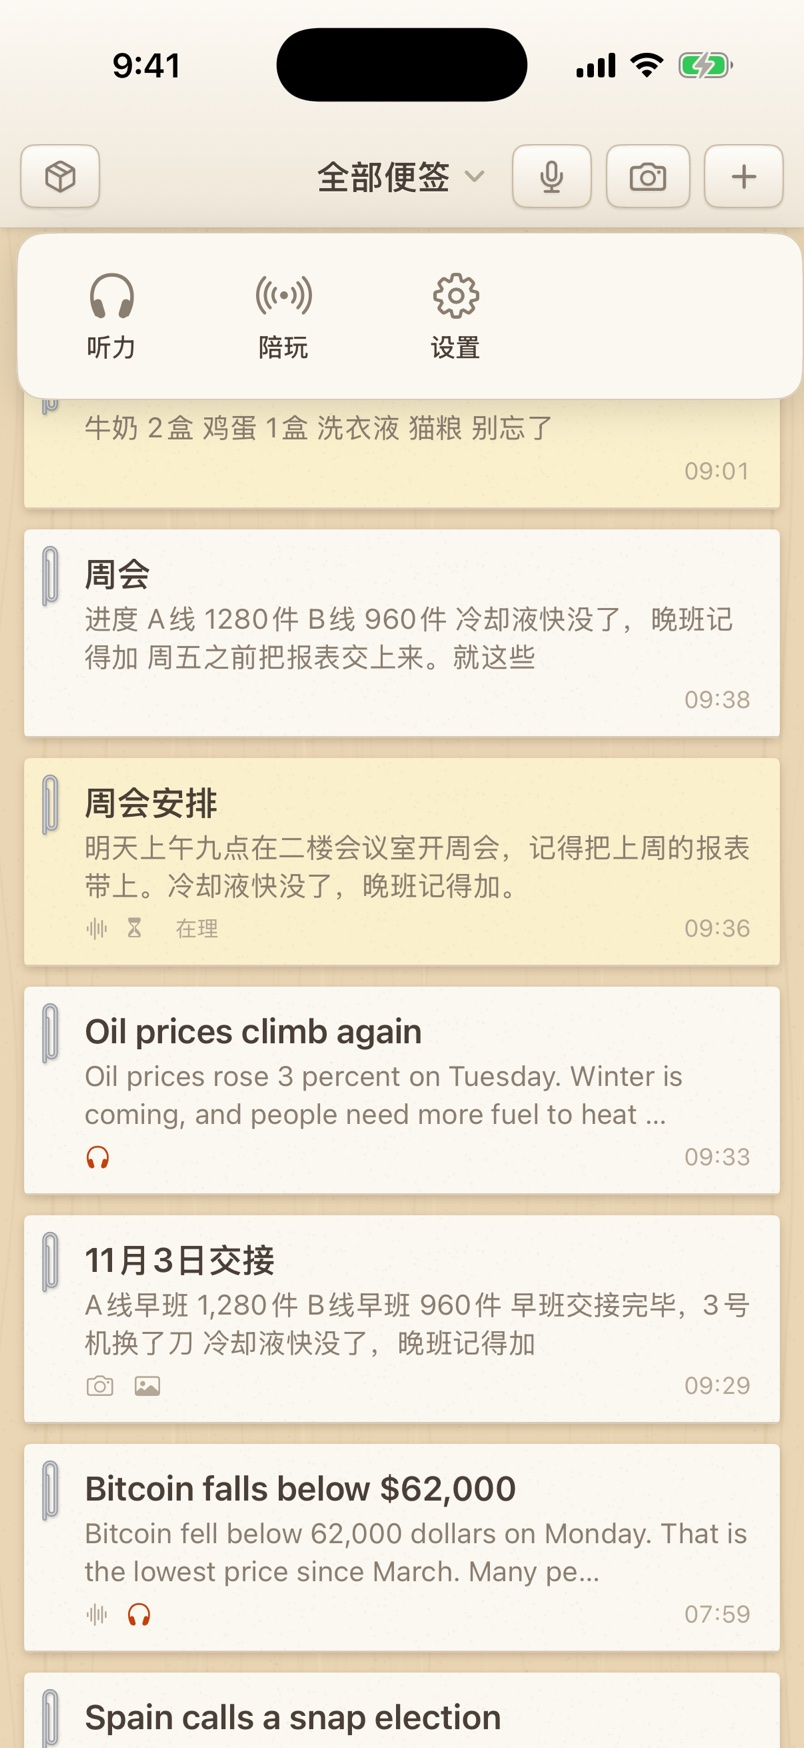
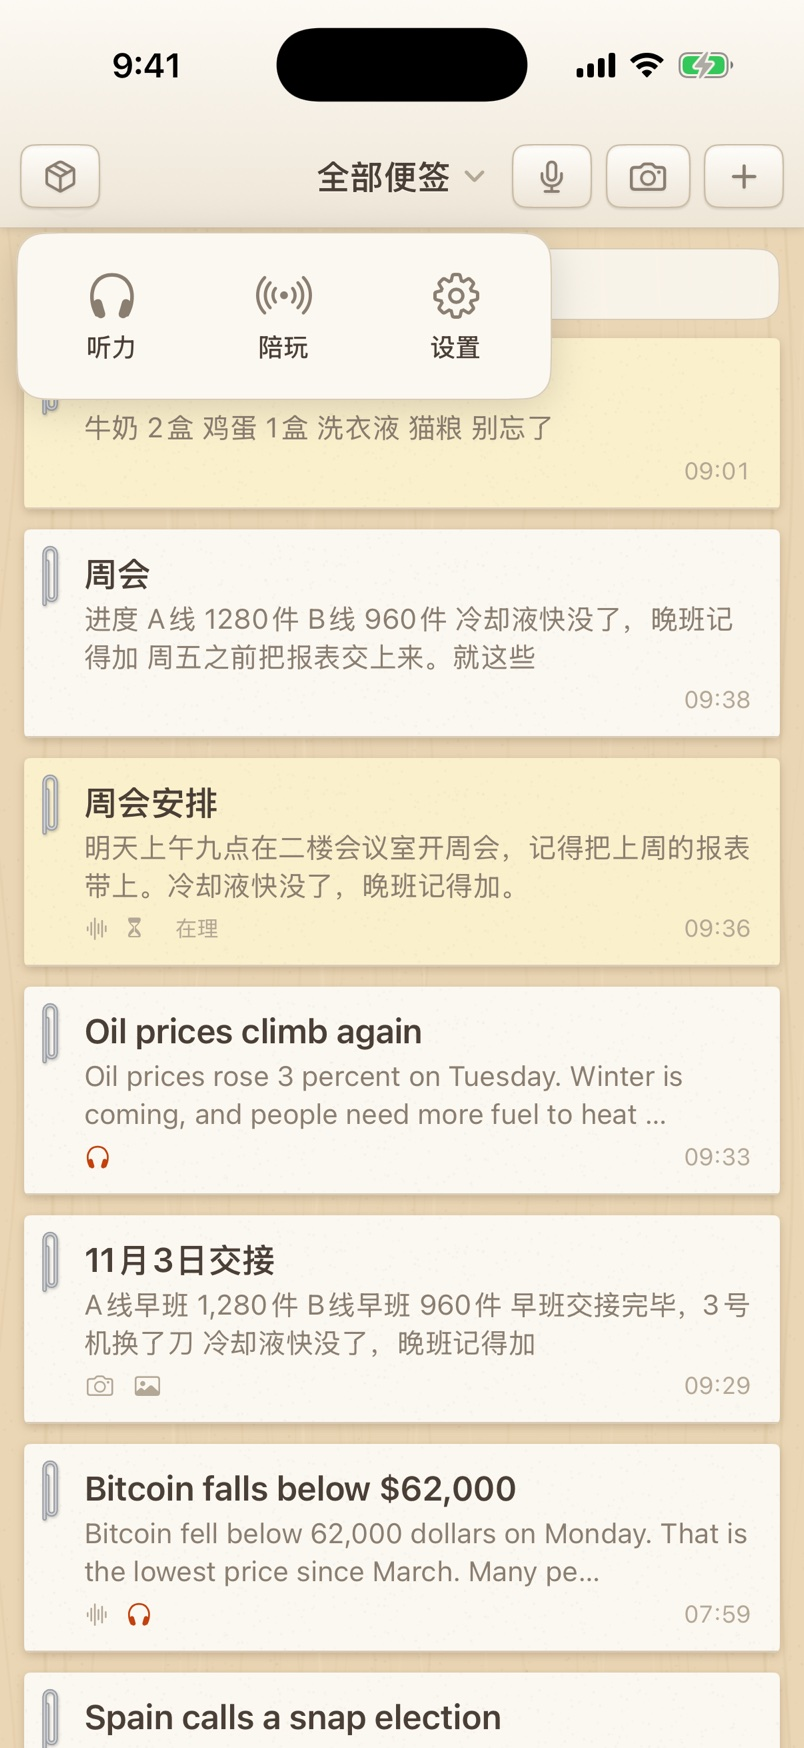
iOS 截图：3bbd1cc [skip ci]

Changed region(s): [[0.653, 0.1236, 1.0, 0.2471]]

diff --git a/ios/shots/index.html b/ios/shots/index.html
@@ -26,18 +26,18 @@ figcaption { text-align:center; color:var(--ink2); font-size:14px; margin-top:6p
 <body>
 <header>
 <h1>一叶笺 iPhone · 最新样子</h1>
-<p class="meta">0.7.3 · 提交 837dca7 · 11-24 12:09（新加坡时间）</p>
-<p class="changed">这次改了：105 一叶笺 0.7.3：工具箱面板贴着格子，不拉满整行</p>
+<p class="meta">0.7.3 · 提交 3bbd1cc · 11-24 12:10（新加坡时间）</p>
+<p class="changed">这次改了：截图：837dca7 [skip ci]</p>
 <p class="meta">拍照认字认对：印刷 99%，手写 89% · 52 张截图，CI 每次自动换</p>
 </header>
 <nav>
 <button data-lang="zh" aria-pressed="true">中文</button><button data-lang="en" aria-pressed="false">English</button>
 <button data-look="light" aria-pressed="true">浅色</button><button data-look="dark" aria-pressed="false">深色</button>
 </nav>
-<section class="set" data-set="zh-light"><figure><img src="zh-light/01-list.jpg?v=837dca7" alt="列表" loading="lazy" width="402" height="874"><figcaption>列表</figcaption></figure><figure><img src="zh-light/02-editor.jpg?v=837dca7" alt="写字页" loading="lazy" width="402" height="874"><figcaption>写字页</figcaption></figure><figure><img src="zh-light/03-markdown.jpg?v=837dca7" alt="Markdown 五招" loading="lazy" width="402" height="874"><figcaption>Markdown 五招</figcaption></figure><figure><img src="zh-light/04-ocr.jpg?v=837dca7" alt="拍照认字" loading="lazy" width="402" height="874"><figcaption>拍照认字</figcaption></figure><figure><img src="zh-light/05-share-note.jpg?v=837dca7" alt="分享成图 · 便签" loading="lazy" width="402" height="874"><figcaption>分享成图 · 便签</figcaption></figure><figure><img src="zh-light/06-share-white.jpg?v=837dca7" alt="分享成图 · 白纸" loading="lazy" width="402" height="874"><figcaption>分享成图 · 白纸</figcaption></figure><figure><img src="zh-light/07-settings.jpg?v=837dca7" alt="设置" loading="lazy" width="402" height="874"><figcaption>设置</figcaption></figure><figure><img src="zh-light/08-butler.jpg?v=837dca7" alt="大管家" loading="lazy" width="402" height="874"><figcaption>大管家</figcaption></figure><figure><img src="zh-light/09-voice.jpg?v=837dca7" alt="录一段" loading="lazy" width="402" height="874"><figcaption>录一段</figcaption></figure><figure><img src="zh-light/10-voice-note.jpg?v=837dca7" alt="录音笔记" loading="lazy" width="402" height="874"><figcaption>录音笔记</figcaption></figure><figure><img src="zh-light/11-listen.jpg?v=837dca7" alt="听力列表" loading="lazy" width="402" height="874"><figcaption>听力列表</figcaption></figure><figure><img src="zh-light/12-listen-text.jpg?v=837dca7" alt="听力 · 原文" loading="lazy" width="402" height="874"><figcaption>听力 · 原文</figcaption></figure><figure><img src="zh-light/13-toolbox.jpg?v=837dca7" alt="工具箱（点开）" loading="lazy" width="402" height="874"><figcaption>工具箱（点开）</figcaption></figure></section>
-<section class="set" data-set="zh-dark" hidden><figure><img src="zh-dark/01-list.jpg?v=837dca7" alt="列表" loading="lazy" width="402" height="874"><figcaption>列表</figcaption></figure><figure><img src="zh-dark/02-editor.jpg?v=837dca7" alt="写字页" loading="lazy" width="402" height="874"><figcaption>写字页</figcaption></figure><figure><img src="zh-dark/03-markdown.jpg?v=837dca7" alt="Markdown 五招" loading="lazy" width="402" height="874"><figcaption>Markdown 五招</figcaption></figure><figure><img src="zh-dark/04-ocr.jpg?v=837dca7" alt="拍照认字" loading="lazy" width="402" height="874"><figcaption>拍照认字</figcaption></figure><figure><img src="zh-dark/05-share-note.jpg?v=837dca7" alt="分享成图 · 便签" loading="lazy" width="402" height="874"><figcaption>分享成图 · 便签</figcaption></figure><figure><img src="zh-dark/06-share-white.jpg?v=837dca7" alt="分享成图 · 白纸" loading="lazy" width="402" height="874"><figcaption>分享成图 · 白纸</figcaption></figure><figure><img src="zh-dark/07-settings.jpg?v=837dca7" alt="设置" loading="lazy" width="402" height="874"><figcaption>设置</figcaption></figure><figure><img src="zh-dark/08-butler.jpg?v=837dca7" alt="大管家" loading="lazy" width="402" height="874"><figcaption>大管家</figcaption></figure><figure><img src="zh-dark/09-voice.jpg?v=837dca7" alt="录一段" loading="lazy" width="402" height="874"><figcaption>录一段</figcaption></figure><figure><img src="zh-dark/10-voice-note.jpg?v=837dca7" alt="录音笔记" loading="lazy" width="402" height="874"><figcaption>录音笔记</figcaption></figure><figure><img src="zh-dark/11-listen.jpg?v=837dca7" alt="听力列表" loading="lazy" width="402" height="874"><figcaption>听力列表</figcaption></figure><figure><img src="zh-dark/12-listen-text.jpg?v=837dca7" alt="听力 · 原文" loading="lazy" width="402" height="874"><figcaption>听力 · 原文</figcaption></figure><figure><img src="zh-dark/13-toolbox.jpg?v=837dca7" alt="工具箱（点开）" loading="lazy" width="402" height="874"><figcaption>工具箱（点开）</figcaption></figure></section>
-<section class="set" data-set="en-light" hidden><figure><img src="en-light/01-list.jpg?v=837dca7" alt="列表" loading="lazy" width="402" height="874"><figcaption>列表</figcaption></figure><figure><img src="en-light/02-editor.jpg?v=837dca7" alt="写字页" loading="lazy" width="402" height="874"><figcaption>写字页</figcaption></figure><figure><img src="en-light/03-markdown.jpg?v=837dca7" alt="Markdown 五招" loading="lazy" width="402" height="874"><figcaption>Markdown 五招</figcaption></figure><figure><img src="en-light/04-ocr.jpg?v=837dca7" alt="拍照认字" loading="lazy" width="402" height="874"><figcaption>拍照认字</figcaption></figure><figure><img src="en-light/05-share-note.jpg?v=837dca7" alt="分享成图 · 便签" loading="lazy" width="402" height="874"><figcaption>分享成图 · 便签</figcaption></figure><figure><img src="en-light/06-share-white.jpg?v=837dca7" alt="分享成图 · 白纸" loading="lazy" width="402" height="874"><figcaption>分享成图 · 白纸</figcaption></figure><figure><img src="en-light/07-settings.jpg?v=837dca7" alt="设置" loading="lazy" width="402" height="874"><figcaption>设置</figcaption></figure><figure><img src="en-light/08-butler.jpg?v=837dca7" alt="大管家" loading="lazy" width="402" height="874"><figcaption>大管家</figcaption></figure><figure><img src="en-light/09-voice.jpg?v=837dca7" alt="录一段" loading="lazy" width="402" height="874"><figcaption>录一段</figcaption></figure><figure><img src="en-light/10-voice-note.jpg?v=837dca7" alt="录音笔记" loading="lazy" width="402" height="874"><figcaption>录音笔记</figcaption></figure><figure><img src="en-light/11-listen.jpg?v=837dca7" alt="听力列表" loading="lazy" width="402" height="874"><figcaption>听力列表</figcaption></figure><figure><img src="en-light/12-listen-text.jpg?v=837dca7" alt="听力 · 原文" loading="lazy" width="402" height="874"><figcaption>听力 · 原文</figcaption></figure><figure><img src="en-light/13-toolbox.jpg?v=837dca7" alt="工具箱（点开）" loading="lazy" width="402" height="874"><figcaption>工具箱（点开）</figcaption></figure></section>
-<section class="set" data-set="en-dark" hidden><figure><img src="en-dark/01-list.jpg?v=837dca7" alt="列表" loading="lazy" width="402" height="874"><figcaption>列表</figcaption></figure><figure><img src="en-dark/02-editor.jpg?v=837dca7" alt="写字页" loading="lazy" width="402" height="874"><figcaption>写字页</figcaption></figure><figure><img src="en-dark/03-markdown.jpg?v=837dca7" alt="Markdown 五招" loading="lazy" width="402" height="874"><figcaption>Markdown 五招</figcaption></figure><figure><img src="en-dark/04-ocr.jpg?v=837dca7" alt="拍照认字" loading="lazy" width="402" height="874"><figcaption>拍照认字</figcaption></figure><figure><img src="en-dark/05-share-note.jpg?v=837dca7" alt="分享成图 · 便签" loading="lazy" width="402" height="874"><figcaption>分享成图 · 便签</figcaption></figure><figure><img src="en-dark/06-share-white.jpg?v=837dca7" alt="分享成图 · 白纸" loading="lazy" width="402" height="874"><figcaption>分享成图 · 白纸</figcaption></figure><figure><img src="en-dark/07-settings.jpg?v=837dca7" alt="设置" loading="lazy" width="402" height="874"><figcaption>设置</figcaption></figure><figure><img src="en-dark/08-butler.jpg?v=837dca7" alt="大管家" loading="lazy" width="402" height="874"><figcaption>大管家</figcaption></figure><figure><img src="en-dark/09-voice.jpg?v=837dca7" alt="录一段" loading="lazy" width="402" height="874"><figcaption>录一段</figcaption></figure><figure><img src="en-dark/10-voice-note.jpg?v=837dca7" alt="录音笔记" loading="lazy" width="402" height="874"><figcaption>录音笔记</figcaption></figure><figure><img src="en-dark/11-listen.jpg?v=837dca7" alt="听力列表" loading="lazy" width="402" height="874"><figcaption>听力列表</figcaption></figure><figure><img src="en-dark/12-listen-text.jpg?v=837dca7" alt="听力 · 原文" loading="lazy" width="402" height="874"><figcaption>听力 · 原文</figcaption></figure><figure><img src="en-dark/13-toolbox.jpg?v=837dca7" alt="工具箱（点开）" loading="lazy" width="402" height="874"><figcaption>工具箱（点开）</figcaption></figure></section>
+<section class="set" data-set="zh-light"><figure><img src="zh-light/01-list.jpg?v=3bbd1cc" alt="列表" loading="lazy" width="402" height="874"><figcaption>列表</figcaption></figure><figure><img src="zh-light/02-editor.jpg?v=3bbd1cc" alt="写字页" loading="lazy" width="402" height="874"><figcaption>写字页</figcaption></figure><figure><img src="zh-light/03-markdown.jpg?v=3bbd1cc" alt="Markdown 五招" loading="lazy" width="402" height="874"><figcaption>Markdown 五招</figcaption></figure><figure><img src="zh-light/04-ocr.jpg?v=3bbd1cc" alt="拍照认字" loading="lazy" width="402" height="874"><figcaption>拍照认字</figcaption></figure><figure><img src="zh-light/05-share-note.jpg?v=3bbd1cc" alt="分享成图 · 便签" loading="lazy" width="402" height="874"><figcaption>分享成图 · 便签</figcaption></figure><figure><img src="zh-light/06-share-white.jpg?v=3bbd1cc" alt="分享成图 · 白纸" loading="lazy" width="402" height="874"><figcaption>分享成图 · 白纸</figcaption></figure><figure><img src="zh-light/07-settings.jpg?v=3bbd1cc" alt="设置" loading="lazy" width="402" height="874"><figcaption>设置</figcaption></figure><figure><img src="zh-light/08-butler.jpg?v=3bbd1cc" alt="大管家" loading="lazy" width="402" height="874"><figcaption>大管家</figcaption></figure><figure><img src="zh-light/09-voice.jpg?v=3bbd1cc" alt="录一段" loading="lazy" width="402" height="874"><figcaption>录一段</figcaption></figure><figure><img src="zh-light/10-voice-note.jpg?v=3bbd1cc" alt="录音笔记" loading="lazy" width="402" height="874"><figcaption>录音笔记</figcaption></figure><figure><img src="zh-light/11-listen.jpg?v=3bbd1cc" alt="听力列表" loading="lazy" width="402" height="874"><figcaption>听力列表</figcaption></figure><figure><img src="zh-light/12-listen-text.jpg?v=3bbd1cc" alt="听力 · 原文" loading="lazy" width="402" height="874"><figcaption>听力 · 原文</figcaption></figure><figure><img src="zh-light/13-toolbox.jpg?v=3bbd1cc" alt="工具箱（点开）" loading="lazy" width="402" height="874"><figcaption>工具箱（点开）</figcaption></figure></section>
+<section class="set" data-set="zh-dark" hidden><figure><img src="zh-dark/01-list.jpg?v=3bbd1cc" alt="列表" loading="lazy" width="402" height="874"><figcaption>列表</figcaption></figure><figure><img src="zh-dark/02-editor.jpg?v=3bbd1cc" alt="写字页" loading="lazy" width="402" height="874"><figcaption>写字页</figcaption></figure><figure><img src="zh-dark/03-markdown.jpg?v=3bbd1cc" alt="Markdown 五招" loading="lazy" width="402" height="874"><figcaption>Markdown 五招</figcaption></figure><figure><img src="zh-dark/04-ocr.jpg?v=3bbd1cc" alt="拍照认字" loading="lazy" width="402" height="874"><figcaption>拍照认字</figcaption></figure><figure><img src="zh-dark/05-share-note.jpg?v=3bbd1cc" alt="分享成图 · 便签" loading="lazy" width="402" height="874"><figcaption>分享成图 · 便签</figcaption></figure><figure><img src="zh-dark/06-share-white.jpg?v=3bbd1cc" alt="分享成图 · 白纸" loading="lazy" width="402" height="874"><figcaption>分享成图 · 白纸</figcaption></figure><figure><img src="zh-dark/07-settings.jpg?v=3bbd1cc" alt="设置" loading="lazy" width="402" height="874"><figcaption>设置</figcaption></figure><figure><img src="zh-dark/08-butler.jpg?v=3bbd1cc" alt="大管家" loading="lazy" width="402" height="874"><figcaption>大管家</figcaption></figure><figure><img src="zh-dark/09-voice.jpg?v=3bbd1cc" alt="录一段" loading="lazy" width="402" height="874"><figcaption>录一段</figcaption></figure><figure><img src="zh-dark/10-voice-note.jpg?v=3bbd1cc" alt="录音笔记" loading="lazy" width="402" height="874"><figcaption>录音笔记</figcaption></figure><figure><img src="zh-dark/11-listen.jpg?v=3bbd1cc" alt="听力列表" loading="lazy" width="402" height="874"><figcaption>听力列表</figcaption></figure><figure><img src="zh-dark/12-listen-text.jpg?v=3bbd1cc" alt="听力 · 原文" loading="lazy" width="402" height="874"><figcaption>听力 · 原文</figcaption></figure><figure><img src="zh-dark/13-toolbox.jpg?v=3bbd1cc" alt="工具箱（点开）" loading="lazy" width="402" height="874"><figcaption>工具箱（点开）</figcaption></figure></section>
+<section class="set" data-set="en-light" hidden><figure><img src="en-light/01-list.jpg?v=3bbd1cc" alt="列表" loading="lazy" width="402" height="874"><figcaption>列表</figcaption></figure><figure><img src="en-light/02-editor.jpg?v=3bbd1cc" alt="写字页" loading="lazy" width="402" height="874"><figcaption>写字页</figcaption></figure><figure><img src="en-light/03-markdown.jpg?v=3bbd1cc" alt="Markdown 五招" loading="lazy" width="402" height="874"><figcaption>Markdown 五招</figcaption></figure><figure><img src="en-light/04-ocr.jpg?v=3bbd1cc" alt="拍照认字" loading="lazy" width="402" height="874"><figcaption>拍照认字</figcaption></figure><figure><img src="en-light/05-share-note.jpg?v=3bbd1cc" alt="分享成图 · 便签" loading="lazy" width="402" height="874"><figcaption>分享成图 · 便签</figcaption></figure><figure><img src="en-light/06-share-white.jpg?v=3bbd1cc" alt="分享成图 · 白纸" loading="lazy" width="402" height="874"><figcaption>分享成图 · 白纸</figcaption></figure><figure><img src="en-light/07-settings.jpg?v=3bbd1cc" alt="设置" loading="lazy" width="402" height="874"><figcaption>设置</figcaption></figure><figure><img src="en-light/08-butler.jpg?v=3bbd1cc" alt="大管家" loading="lazy" width="402" height="874"><figcaption>大管家</figcaption></figure><figure><img src="en-light/09-voice.jpg?v=3bbd1cc" alt="录一段" loading="lazy" width="402" height="874"><figcaption>录一段</figcaption></figure><figure><img src="en-light/10-voice-note.jpg?v=3bbd1cc" alt="录音笔记" loading="lazy" width="402" height="874"><figcaption>录音笔记</figcaption></figure><figure><img src="en-light/11-listen.jpg?v=3bbd1cc" alt="听力列表" loading="lazy" width="402" height="874"><figcaption>听力列表</figcaption></figure><figure><img src="en-light/12-listen-text.jpg?v=3bbd1cc" alt="听力 · 原文" loading="lazy" width="402" height="874"><figcaption>听力 · 原文</figcaption></figure><figure><img src="en-light/13-toolbox.jpg?v=3bbd1cc" alt="工具箱（点开）" loading="lazy" width="402" height="874"><figcaption>工具箱（点开）</figcaption></figure></section>
+<section class="set" data-set="en-dark" hidden><figure><img src="en-dark/01-list.jpg?v=3bbd1cc" alt="列表" loading="lazy" width="402" height="874"><figcaption>列表</figcaption></figure><figure><img src="en-dark/02-editor.jpg?v=3bbd1cc" alt="写字页" loading="lazy" width="402" height="874"><figcaption>写字页</figcaption></figure><figure><img src="en-dark/03-markdown.jpg?v=3bbd1cc" alt="Markdown 五招" loading="lazy" width="402" height="874"><figcaption>Markdown 五招</figcaption></figure><figure><img src="en-dark/04-ocr.jpg?v=3bbd1cc" alt="拍照认字" loading="lazy" width="402" height="874"><figcaption>拍照认字</figcaption></figure><figure><img src="en-dark/05-share-note.jpg?v=3bbd1cc" alt="分享成图 · 便签" loading="lazy" width="402" height="874"><figcaption>分享成图 · 便签</figcaption></figure><figure><img src="en-dark/06-share-white.jpg?v=3bbd1cc" alt="分享成图 · 白纸" loading="lazy" width="402" height="874"><figcaption>分享成图 · 白纸</figcaption></figure><figure><img src="en-dark/07-settings.jpg?v=3bbd1cc" alt="设置" loading="lazy" width="402" height="874"><figcaption>设置</figcaption></figure><figure><img src="en-dark/08-butler.jpg?v=3bbd1cc" alt="大管家" loading="lazy" width="402" height="874"><figcaption>大管家</figcaption></figure><figure><img src="en-dark/09-voice.jpg?v=3bbd1cc" alt="录一段" loading="lazy" width="402" height="874"><figcaption>录一段</figcaption></figure><figure><img src="en-dark/10-voice-note.jpg?v=3bbd1cc" alt="录音笔记" loading="lazy" width="402" height="874"><figcaption>录音笔记</figcaption></figure><figure><img src="en-dark/11-listen.jpg?v=3bbd1cc" alt="听力列表" loading="lazy" width="402" height="874"><figcaption>听力列表</figcaption></figure><figure><img src="en-dark/12-listen-text.jpg?v=3bbd1cc" alt="听力 · 原文" loading="lazy" width="402" height="874"><figcaption>听力 · 原文</figcaption></figure><figure><img src="en-dark/13-toolbox.jpg?v=3bbd1cc" alt="工具箱（点开）" loading="lazy" width="402" height="874"><figcaption>工具箱（点开）</figcaption></figure></section>
 <script>
 let lang = "zh", look = "light";
 function show() {

diff --git a/ios/shots/ocr/report.md b/ios/shots/ocr/report.md
@@ -4,16 +4,16 @@
 
 | 图 | 类型 | 本机认对 | 标黄段 | 标黄里真错 | 错字被标黄 | 用时 |
 |---|---|---|---|---|---|---|
-| h1 | 手写 | 91% | 2 | 2/2（100%） | 2/3 | 1.5s |
-| h2 | 手写 | 100% | 1 | 0/1（0%） | — | 0.7s |
-| h3 | 手写 | 83% | 2 | 2/2（100%） | 3/4 | 0.7s |
-| h4 | 手写 | 60% | 4 | 4/4（100%） | 8/8 | 0.7s |
-| h5 | 手写 | 100% | 0 | — | — | 0.7s |
-| p1 | 印刷 | 100% | 0 | — | — | 0.7s |
-| p2 | 印刷 | 100% | 1 | 0/1（0%） | — | 0.7s |
-| p3 | 印刷 | 100% | 0 | — | — | 0.8s |
-| p4 | 印刷 | 99% | 0 | — | 0/1 | 0.7s |
-| p5 | 印刷 | 94% | 1 | 1/1（100%） | 2/2 | 0.9s |
+| h1 | 手写 | 91% | 2 | 2/2（100%） | 2/3 | 2.6s |
+| h2 | 手写 | 100% | 1 | 0/1（0%） | — | 1.0s |
+| h3 | 手写 | 83% | 2 | 2/2（100%） | 3/4 | 0.9s |
+| h4 | 手写 | 60% | 4 | 4/4（100%） | 8/8 | 1.0s |
+| h5 | 手写 | 100% | 0 | — | — | 1.2s |
+| p1 | 印刷 | 100% | 0 | — | — | 1.1s |
+| p2 | 印刷 | 100% | 1 | 0/1（0%） | — | 1.5s |
+| p3 | 印刷 | 100% | 0 | — | — | 1.1s |
+| p4 | 印刷 | 99% | 0 | — | 0/1 | 1.3s |
+| p5 | 印刷 | 94% | 1 | 1/1（100%） | 2/2 | 1.5s |
 | **印刷合计** | | **99%** | 2 | 1/2（50%） | 2/3 | |
 | **手写合计** | | **89%** | 9 | 8/9（89%） | 13/15 | |
 

diff --git a/ios/shots/README.md b/ios/shots/README.md
@@ -1,5 +1,5 @@
 # 截图和样张（CI 自动生成，每次覆盖）
 
-- 提交：837dca7
-- Xcode 26.6，模拟器：?（?）
+- 提交：3bbd1cc
+- Xcode 26.6，模拟器：iPhone 17 Pro（iOS-26-5）
 - 目录：zh-light、zh-dark、en-light、en-dark 各 12 张；ocr/ 是 10 张认字样张的结果
